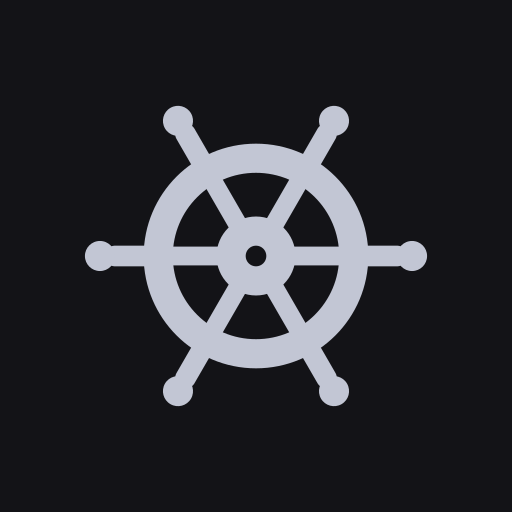
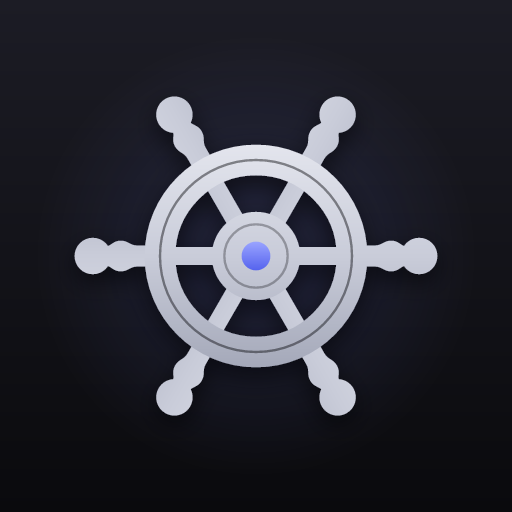
feat(web): a more finished wheel for the mark
The same ship's wheel, drawn as one lit object instead of flat clip-art: a
single silver gradient across the whole wheel, turned-spindle handles, a
grooved rim and hub, a soft drop shadow, and the app's indigo in the hub
over a faint glow.

The grooves turn to mush below ~40px, so favicon.svg is the same wheel
drawn bolder - plain handles, heavier rim - and it is what the browser
tab, the .ico/32px favicons and the 21px sidebar mark use.

The iOS icon is now full-bleed so iOS rounds it itself, and the maskable
icon keeps the wheel inside the 80% safe circle. Icon URLs go to ?v=5
and the worker cache to v9 so installed PWAs pick them up.

diff --git a/apps/web/index.html b/apps/web/index.html
@@ -9,10 +9,10 @@
     <link rel="manifest" href="/manifest.webmanifest" />
     <!-- iOS ignores SVG icons entirely; without a PNG apple-touch-icon it
          screenshots the page and uses that on the home screen. -->
-    <link rel="apple-touch-icon" sizes="180x180" href="/icon-180.png?v=4" />
-    <link rel="icon" type="image/png" sizes="32x32" href="/favicon-32.png?v=4" />
-    <link rel="icon" type="image/svg+xml" href="/icon.svg?v=4" />
-    <link rel="mask-icon" href="/icon.svg?v=4" color="#c2c6d4" />
+    <link rel="apple-touch-icon" sizes="180x180" href="/icon-180.png?v=5" />
+    <link rel="icon" type="image/png" sizes="32x32" href="/favicon-32.png?v=5" />
+    <link rel="icon" type="image/svg+xml" href="/favicon.svg?v=5" />
+    <link rel="mask-icon" href="/icon.svg?v=5" color="#c9ccd9" />
     <meta name="apple-mobile-web-app-title" content="helm" />
     <title>helm</title>
   </head>

diff --git a/apps/web/public/sw.js b/apps/web/public/sw.js
@@ -8,7 +8,7 @@
  */
 // Bump this whenever the shell changes so an installed PWA cannot stay on a
 // previous bundle forever when its page has been left open for days.
-const CACHE = 'helm-shell-v8';
+const CACHE = 'helm-shell-v9';
 /**
  * Hashed bundles live apart from the shell: their names change every deploy,
  * so they only ever accumulate. Capped by count, oldest out, since a worker
@@ -18,7 +18,7 @@ const ASSETS = 'helm-assets';
 const MAX_ASSETS = 60;
 const SHELL = [
   '/', '/index.html', '/manifest.webmanifest',
-  '/icon.svg', '/icon-180.png', '/icon-192.png', '/favicon-32.png',
+  '/icon.svg', '/favicon.svg', '/icon-180.png', '/icon-192.png', '/favicon-32.png',
 ];
 
 /**

diff --git a/apps/web/src/App.tsx b/apps/web/src/App.tsx
@@ -930,7 +930,7 @@ function Shell({ client, conn, onSignOut }: {
       <aside className={`sidebar${!showMain ? ' showing' : ''}${wide && sidebarCollapsed ? ' collapsed' : ''}`}>
         <div className="bar side">
           <div className="brand">
-            <img src="/icon.svg" alt="" />
+            <img src="/favicon.svg" alt="" />
             <b>helm</b>
           </div>
           <span className={`conn ${status}`} title={conn.error || status}>
